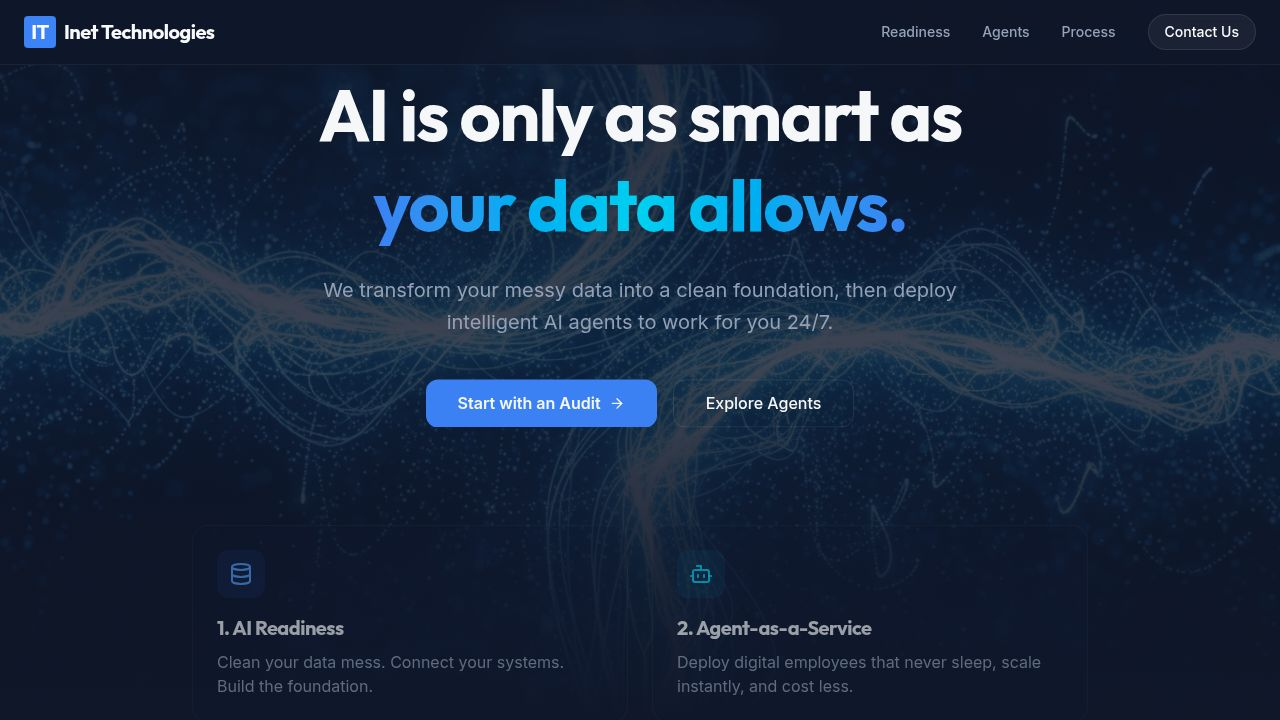
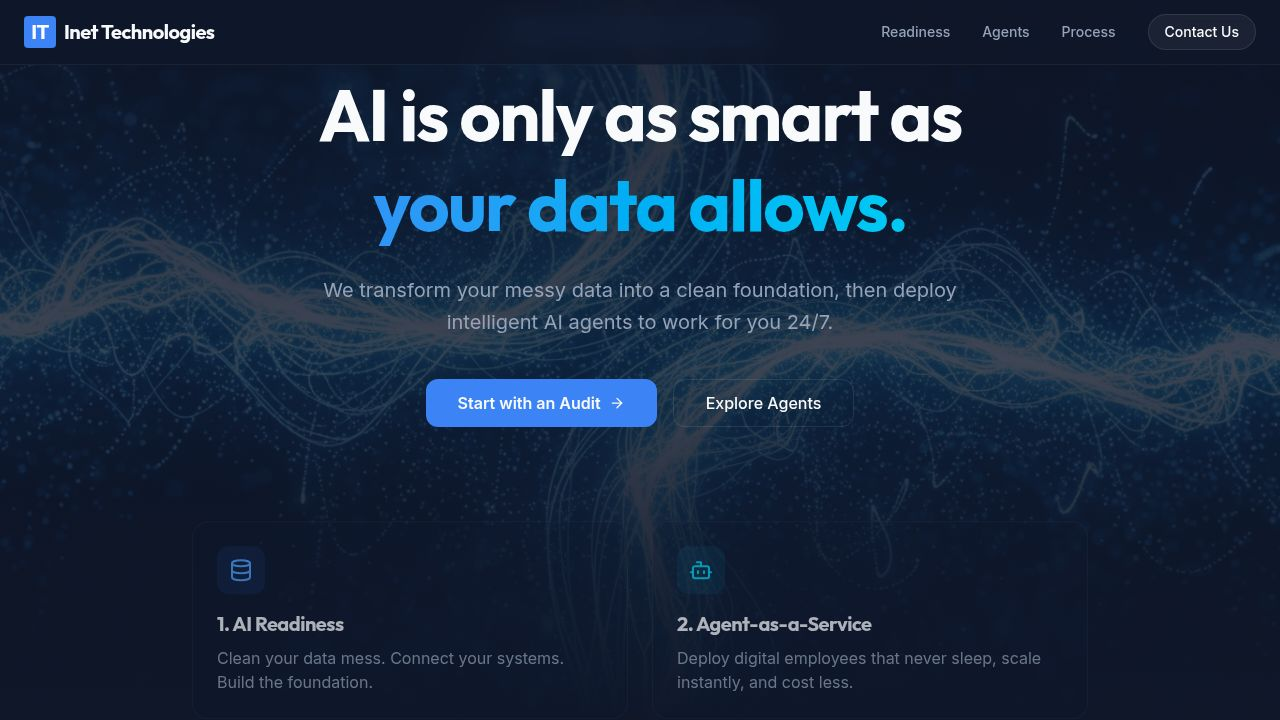
Center align content in AI readiness and agent sections
Update text alignment for the "AI Readiness" and "Agent-as-a-Service" sections to center align headers and descriptions, improving visual consistency across the page layout.

Replit-Commit-Author: Agent
Replit-Commit-Session-Id: 6f62d353-3ca2-4708-a86d-86f4cfeebd65
Replit-Commit-Checkpoint-Type: full_checkpoint
Replit-Commit-Event-Id: 25da922c-5c7a-4ca6-9554-7a02acc3d315
Replit-Commit-Screenshot-Url: https://storage.googleapis.com/screenshot-production-us-central1/fbea2236-60a9-4016-aefe-ba9f7ef475cb/6f62d353-3ca2-4708-a86d-86f4cfeebd65/GehnM0U
Replit-Helium-Checkpoint-Created: true

diff --git a/client/src/components/Agents.tsx b/client/src/components/Agents.tsx
@@ -39,16 +39,16 @@ export default function Agents() {
       <div className="absolute top-0 left-1/2 -translate-x-1/2 w-[800px] h-[500px] bg-primary/20 rounded-full blur-[120px] -z-10"></div>
 
       <div className="container px-4 md:px-6">
-        <div className="flex flex-col md:flex-row items-center justify-between mb-16 gap-8">
-          <div className="max-w-2xl">
+        <div className="flex flex-col items-center text-center mb-16 gap-6">
+          <div className="hidden md:block">
+            <img src={agentIcon} alt="AI Agent" className="w-24 h-24 animate-float opacity-80 mx-auto" />
+          </div>
+          <div className="max-w-2xl flex flex-col items-center">
             <span className="text-accent font-mono text-sm tracking-wider uppercase">Part 2: The Workforce</span>
             <h2 className="text-3xl md:text-5xl font-display font-bold mt-2 mb-4">Agent-as-a-Service</h2>
             <p className="text-lg text-muted-foreground">
               Once your data is clean, we deploy digital employees. They don't take breaks, they don't sleep, and they scale instantly.
             </p>
-          </div>
-          <div className="hidden md:block">
-            <img src={agentIcon} alt="AI Agent" className="w-32 h-32 animate-float opacity-80" />
           </div>
         </div>
 

diff --git a/client/src/components/Readiness.tsx b/client/src/components/Readiness.tsx
@@ -31,7 +31,7 @@ export default function Readiness() {
       <div className="absolute inset-0 bg-[linear-gradient(to_right,#80808012_1px,transparent_1px),linear-gradient(to_bottom,#80808012_1px,transparent_1px)] bg-[size:24px_24px]"></div>
       
       <div className="container px-4 md:px-6 relative z-10">
-        <div className="mb-16">
+        <div className="mb-16 flex flex-col items-center text-center">
           <span className="text-primary font-mono text-sm tracking-wider uppercase">Part 1: The Foundation</span>
           <h2 className="text-3xl md:text-5xl font-display font-bold mt-2 mb-4">AI Readiness</h2>
           <p className="text-lg text-muted-foreground max-w-2xl">
